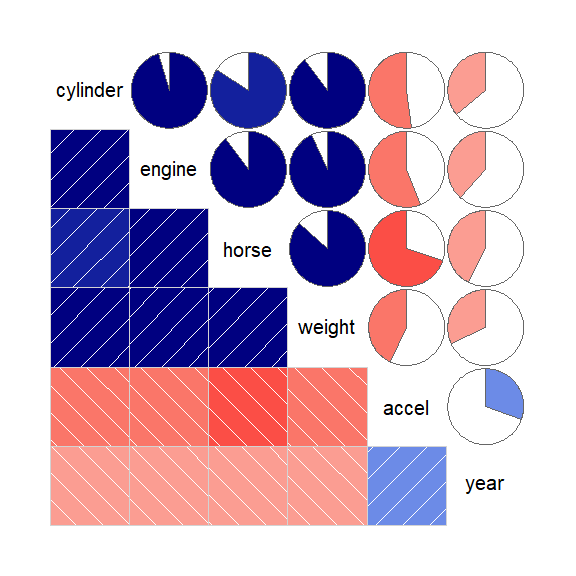
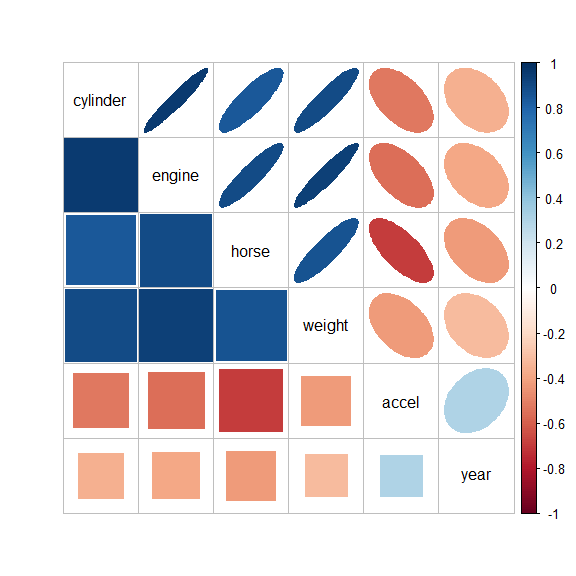
used corrplot not corrgram

diff --git a/README.md b/README.md
@@ -48,7 +48,7 @@ library(VisCollin)
 library(dplyr)
 library(tidyr)
 library(car)
-library(corrgram)
+library(corrplot)
 ```
 
 This example uses the `cars` data set containing various measures of
@@ -148,11 +148,11 @@ R <- cars |>
 #> year          -36    -38   -42    -32    30  100
 ```
 
-Or, better yet, use `corrgram::corrgram()` to visualize them, using
-color and shading of glyphs,
+Or, better yet, use `corrplot::corrplot.mixed()` to visualize them,
+using color and shading of glyphs,
 
 ``` r
-corrgram(R, upper.panel = panel.pie)
+corrplot.mixed(R, lower = "square", upper = "ellipse", tl.col = "black")
 ```
 
 <img src="man/figures/README-cars-corrgram-1.png" width="60%" />
